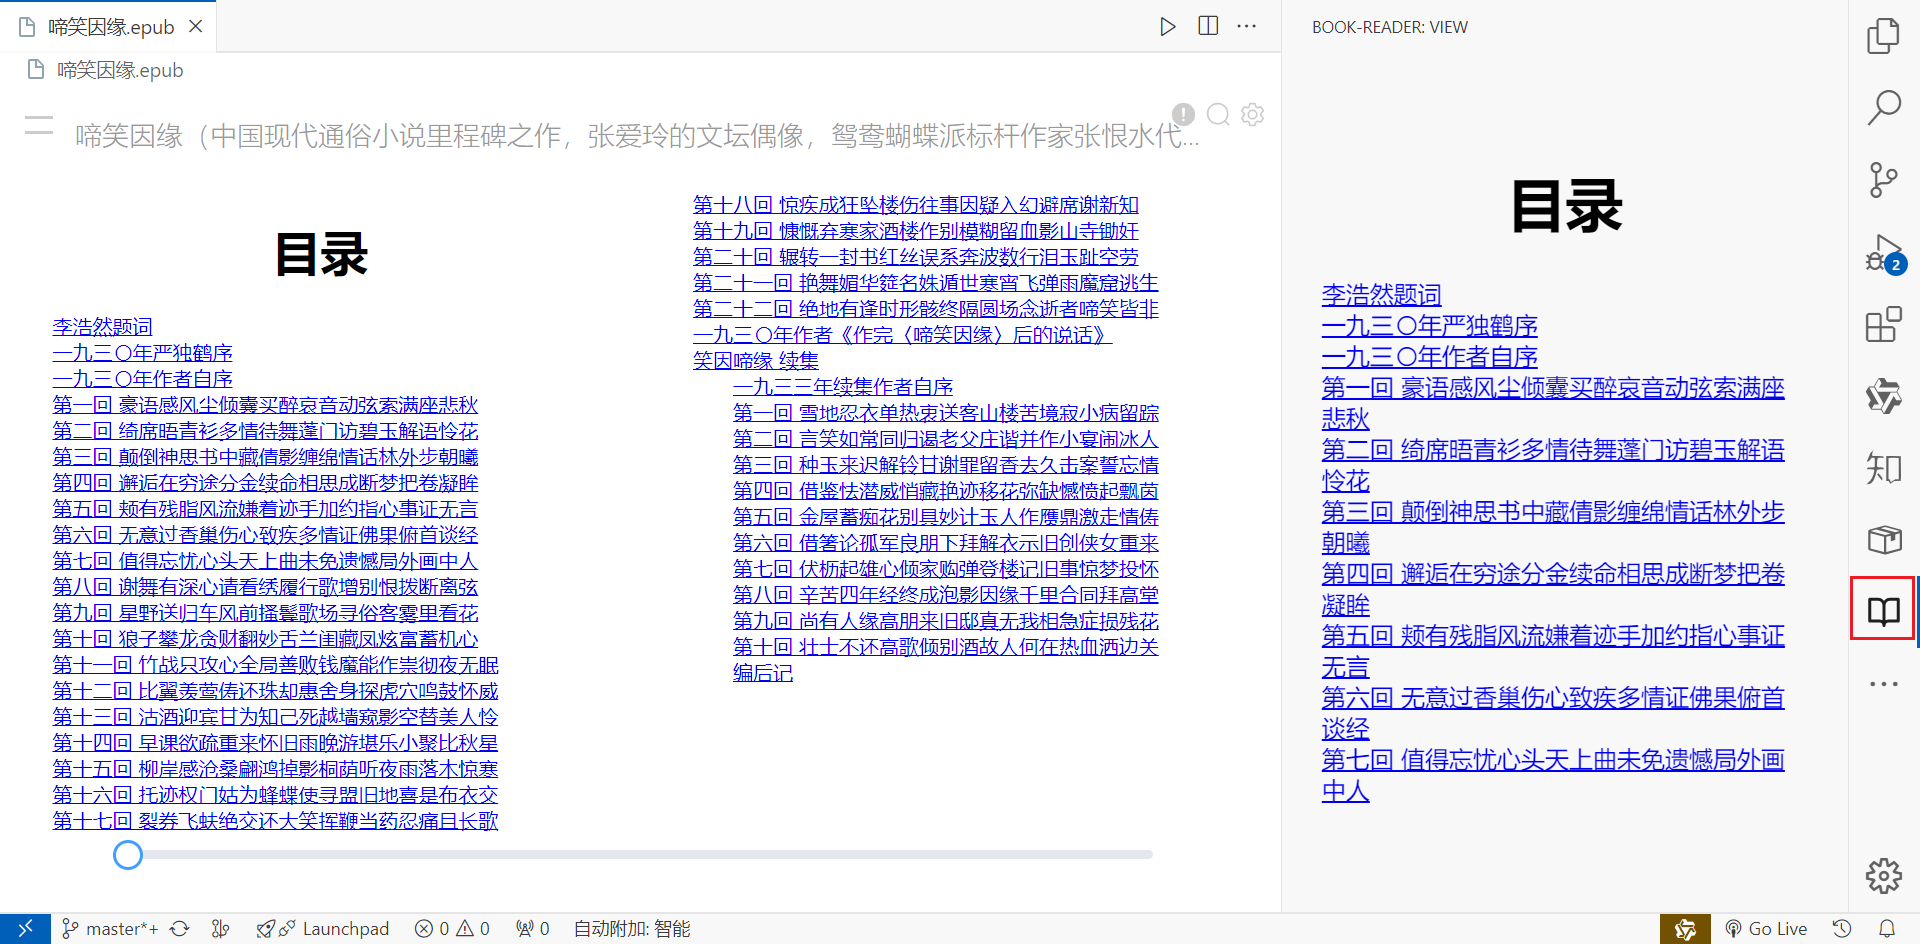
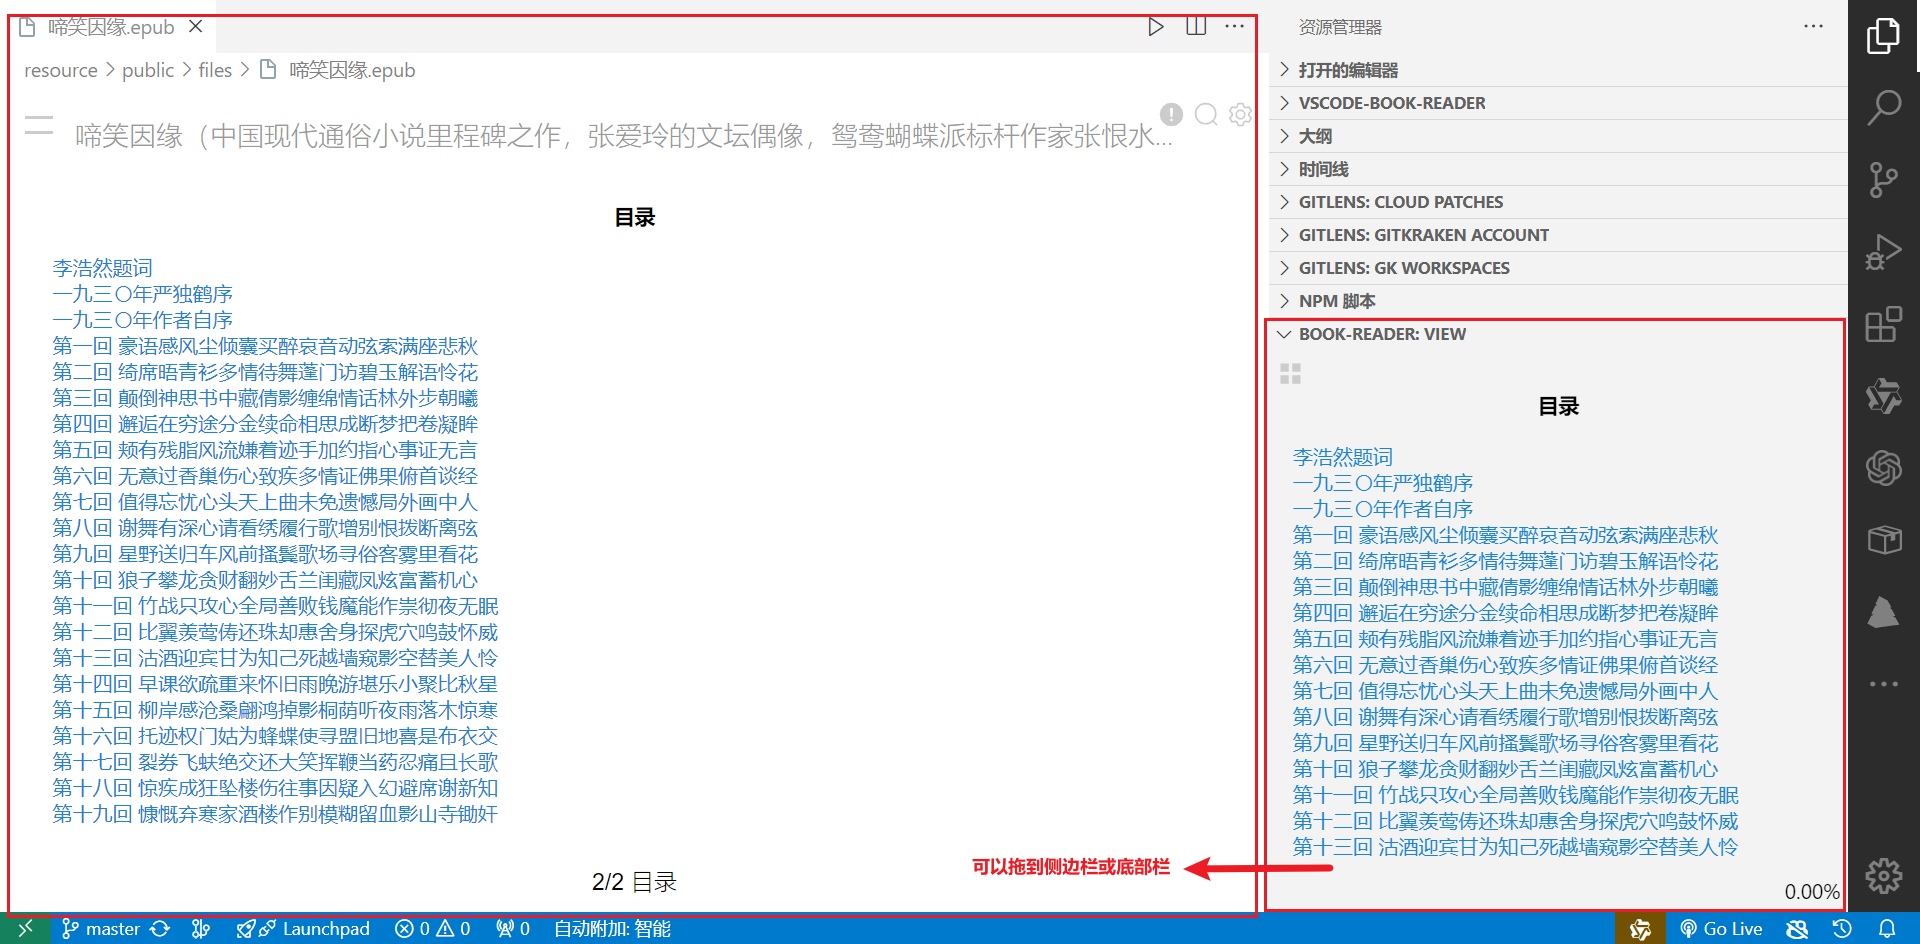
fix: sidebar page & sidebar localStorage

diff --git a/resource/src/App.vue b/resource/src/App.vue
@@ -25,8 +25,10 @@
       <EpubView
         v-if="type === 'epub'"
         :url="url"
+        :location="location"
         :getRendition="getRendition"
         :tocChanged="(val) => (toc = val)"
+        @update:location="locationChange"
       />
       <BookView
         v-else
@@ -278,7 +280,7 @@
       <div
         v-if="progressDisplay === 'location'"
         class="page"
-        :style="{ color: theme.textColor }"
+        :style="{ color: theme.textColor , fontSize: isSidebar ? '14px' :'16px' }"
         :title="page"
       >
         {{ page }}
@@ -487,7 +489,7 @@ const getRendition = (val) => {
         const currentPage = book.locations.percentageFromCfi(
           currentLocation.start.cfi,
         )
-        sliderValue.value = currentPage.toFixed(2)
+        sliderValue.value = (currentPage * 100).toFixed(2)
       })
       rendition.on('relocated', (location) => {
         const percent = book.locations.percentageFromCfi(location.start.cfi)
@@ -921,7 +923,7 @@ sidebar-reader {
 .book-reader .footer,
 .sidebar-reader .footer {
   position: absolute;
-  bottom: 1rem;
+  bottom: 5px;
   right: 0;
   left: 0;
   z-index: 22;
